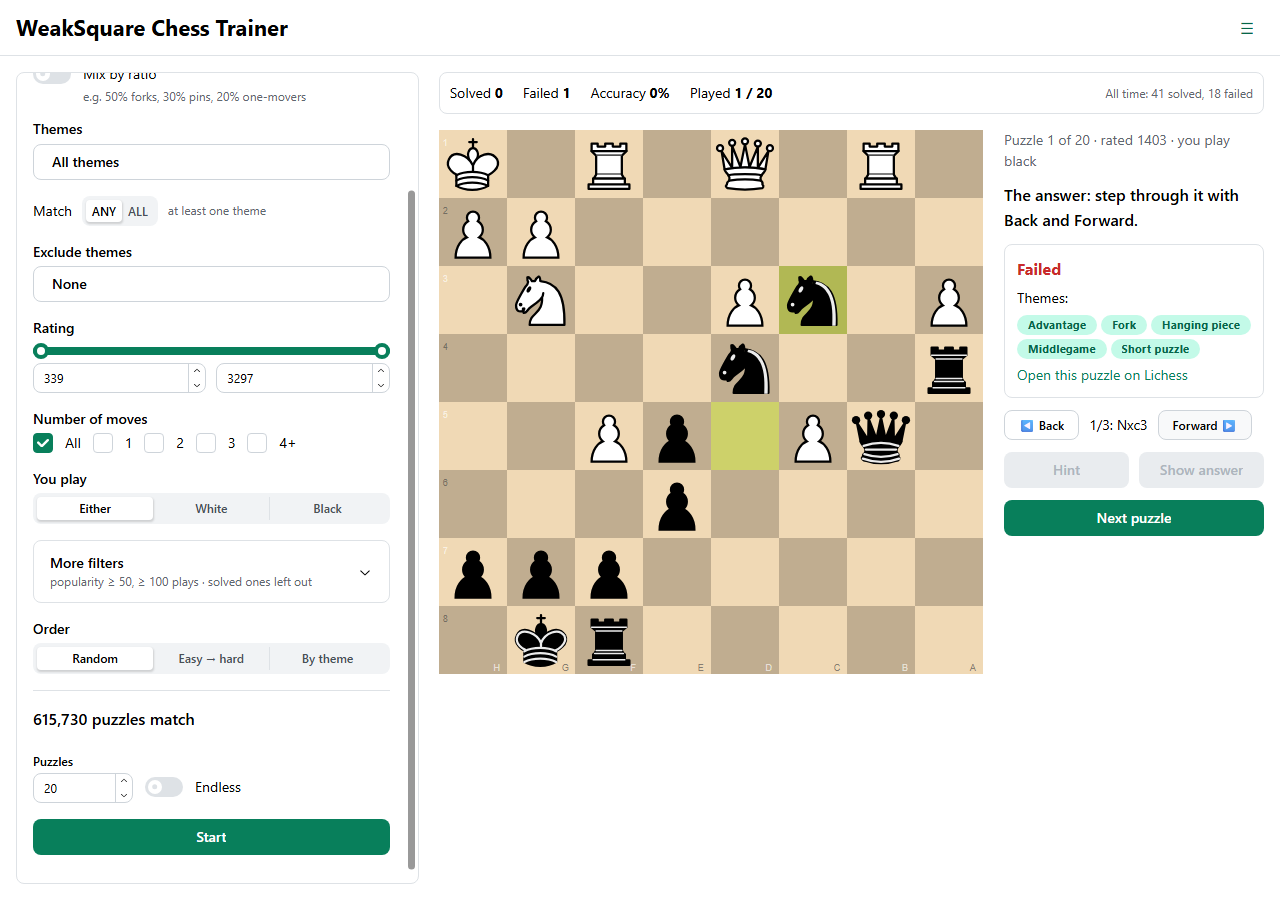
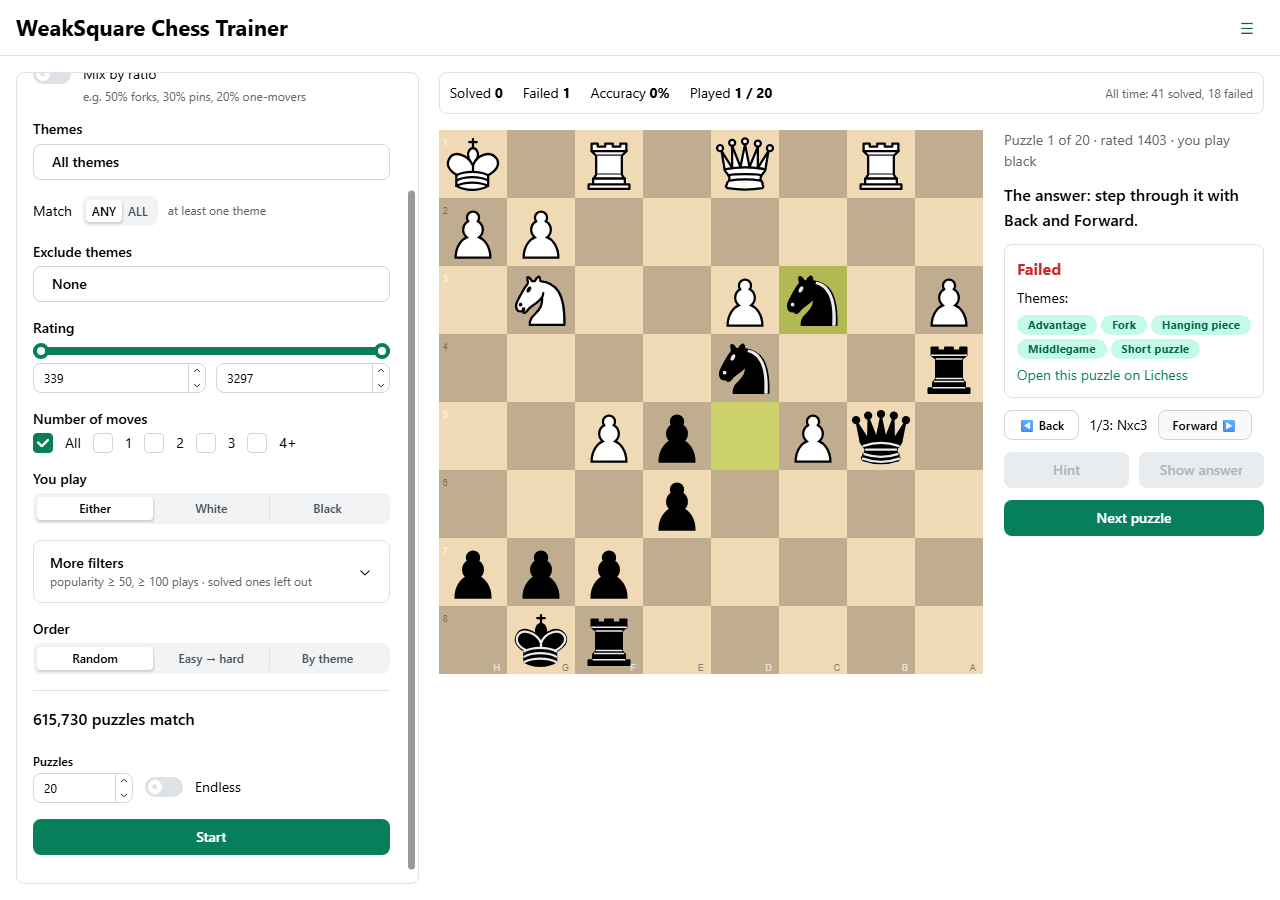
v0.2-rc1: B5 screenshots reproducible (software rendering, settled focus), R2-1 weak B3 test removed; CHANGELOG candidate

diff --git a/tests/e2e/test_docs_screenshots.py b/tests/e2e/test_docs_screenshots.py
@@ -18,6 +18,16 @@ pytestmark = pytest.mark.docs_screenshots
 IMG = Path(__file__).resolve().parents[2] / "docs" / "img"
 
 
+@pytest.fixture(scope="module")
+def browser(pw):  # type: ignore[no-untyped-def]
+    """Screenshots must come out byte for byte the same (v0.1-B14, v0.2-B5): GPU rasterization and
+    LCD text antialiasing vary by a pixel between runs, so render in software, without them."""
+    b = pw.chromium.launch(args=["--disable-gpu", "--disable-lcd-text", "--disable-partial-raster",
+                                 "--font-render-hinting=none", "--force-color-profile=srgb"])  # fmt: skip
+    yield b
+    b.close()
+
+
 def panel_top(page) -> None:  # type: ignore[no-untyped-def]
     """Scroll the filter panel to the top: where focus left it depends on timing (v0.2-B5), and the
     reader should see the panel's title, Preset and Mix by ratio."""
@@ -58,6 +68,7 @@ def test_choosing_puzzles(page) -> None:  # type: ignore[no-untyped-def]
     page.get_by_label("2 moves").check()
     page.get_by_test_id("match-count").filter(has_text="307,865").wait_for()
     page.locator("body").click(position={"x": 1100, "y": 600})  # take focus out of the rating box
+    page.set_viewport_size({"width": 1280, "height": 1180})  # the whole panel, down to Start
     panel_top(page)
     shot(page, "mixer")
 
@@ -102,6 +113,8 @@ def test_presets(page) -> None:  # type: ignore[no-untyped-def]
         page.get_by_test_id(f"ratio-weight-{i}").fill(w)
     page.get_by_test_id("ratio-total").filter(has_text="Total 100%").wait_for()
     page.get_by_test_id("match-count").filter(has_text="puzzles match").wait_for()
+    page.evaluate("document.activeElement && document.activeElement.blur()")  # the last share box (v0.2-B5)
+    page.wait_for_timeout(500)
     panel_top(page)
     page.get_by_test_id("preset-save").click()
     page.get_by_test_id("preset-name").fill("Combo night")

diff --git a/tests/integration/test_session.py b/tests/integration/test_session.py
@@ -187,32 +187,3 @@ def test_request_help_over_the_bridge(paths, clock, services) -> None:  # type: 
     assert hint["kind"] == "hint" and len(hint["hint_square"]) == 2 and hint["outcome"]["win"] is False
     assert api.request_help(sid, "explain")["error"]["code"] == "invalid_argument"
 
-
-def test_swap_between_the_version_check_and_the_read_never_serves_a_wrong_puzzle(services, tmp_path) -> None:  # type: ignore[no-untyped-def]
-    """Regression for v0.2-B3: a re-import swapped in after next_puzzle checked the database version
-    but before it read the next queued key served whatever puzzle had that key in the new file (QA saw
-    a 953-rated puzzle under a 400–600 filter). The swap is forced into exactly that window here."""
-    from tests.integration.test_qa_v01_edges import _subset_db
-
-    spec = FilterSpec(rating_max=1000, queue_size=None, min_popularity=None, min_plays=None)
-    sid = services.sessions.start(spec).session_id
-    services.sessions.next_puzzle(sid)  # fills the queue with keys of the current file
-    # The new file drops the low-rated half, so every old key now points at a different puzzle.
-    new_db = _subset_db(tmp_path / "b.db", lambda r: r.rating > 1200 or r.rating % 2 == 0)
-    source = services.sessions._puzzles
-    real_get = source.get
-    swapped = []
-
-    def get_with_a_swap_first(key, version=None):  # type: ignore[no-untyped-def]
-        if not swapped:
-            swapped.append(True)
-            services.db.swap_puzzles_db(new_db)  # lands after the version check, before the read
-        return real_get(key, version)
-
-    source.get = get_with_a_swap_first
-    try:
-        served = [services.sessions.next_puzzle(sid) for _ in range(10)]
-    finally:
-        source.get = real_get
-    assert swapped
-    assert all(v is not None and v.rating <= 1000 for v in served), [v.rating for v in served if v]
